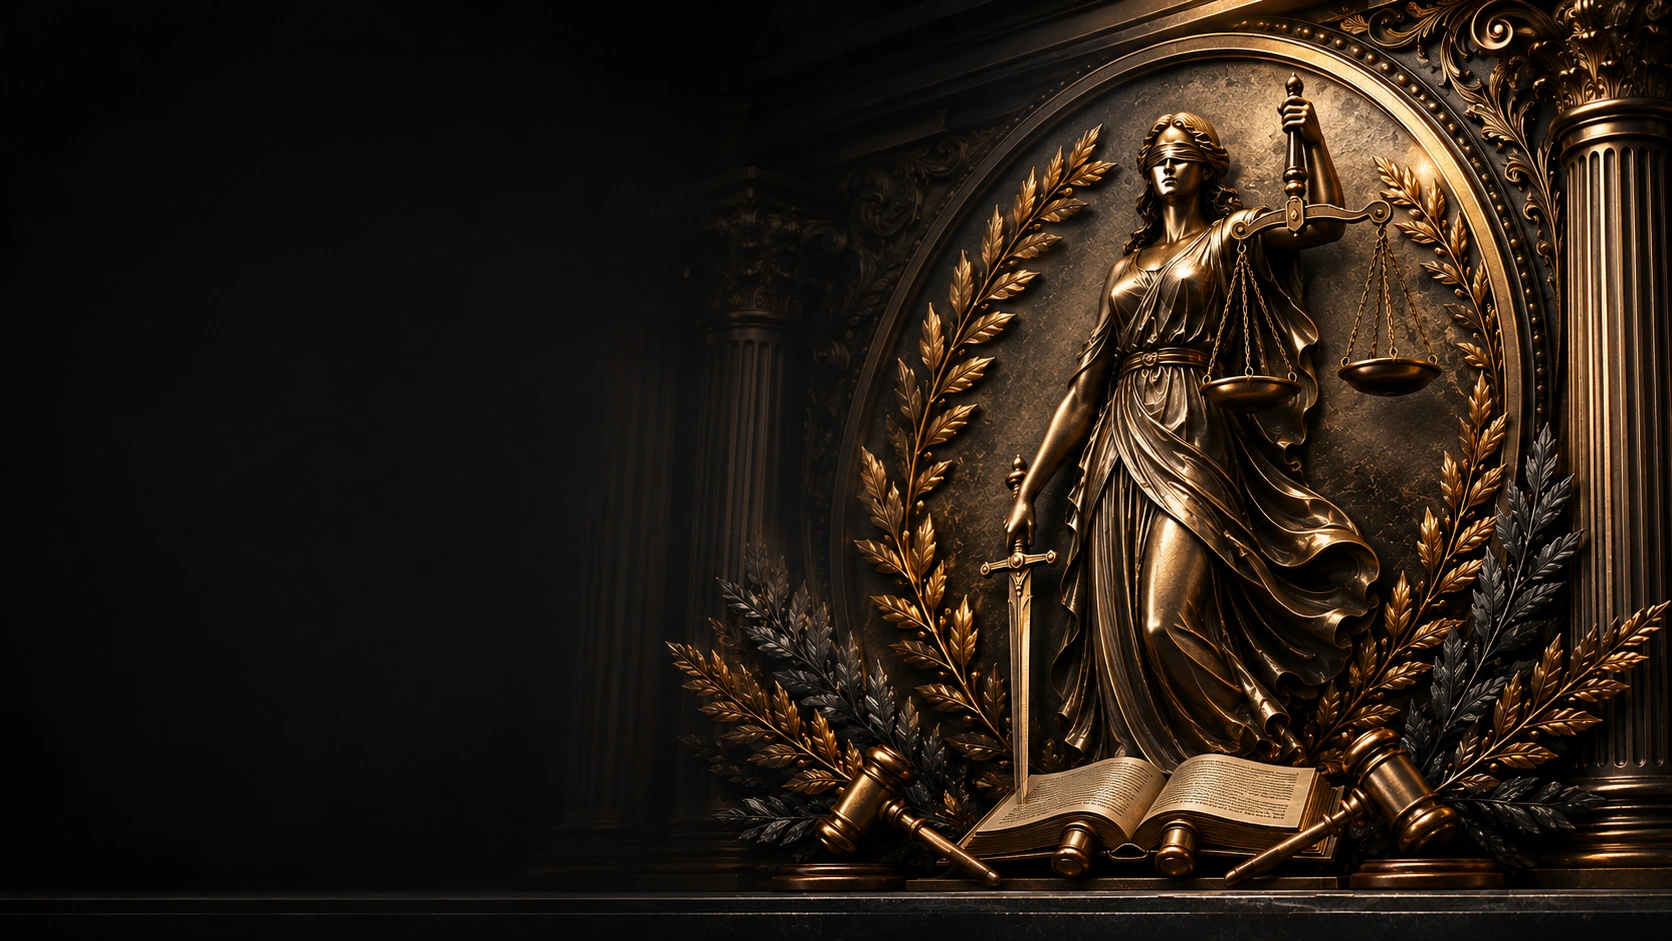
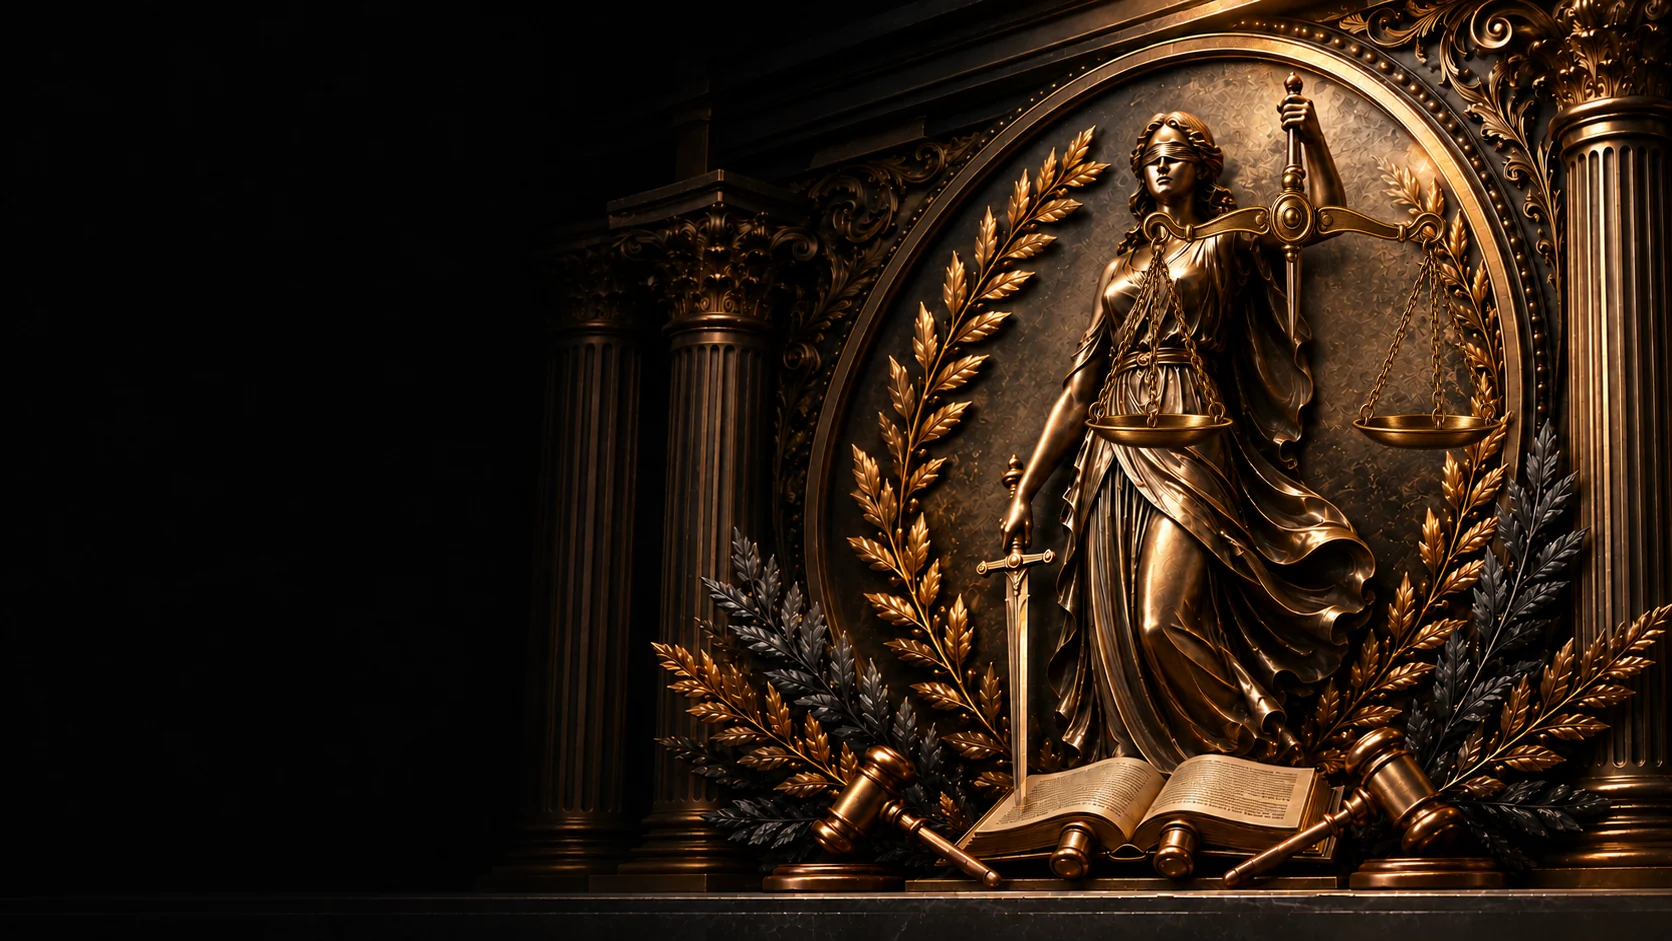
feat: hang the scales as their own layer and let them swing
The scales used to be baked into the hero photograph, so nothing could
move. The hero is now three assets generated from one scene:

  hero-adalet-base.webp     the relief without the balance beam
  hero-terazi.webp          the beam, chains and pans alone, transparent
  hero-adalet-premium.webp  the two composited, for mobile and fallback

The overlay is scaled to 0.34 and placed so the beam's centre boss meets
the collar below her fist, at (1292, 172) on the 1672x941 canvas. Rather
than refactoring the hero, the layer reproduces the background image's
render box exactly — same height percentage, and `left:X%` with
`translate(-X%)`, which is the arithmetic `background-position: X%` already
performs. Alignment then holds across breakpoints on its own; measured
within a pixel at 1440 and at 1024.

Rotation pivots on the fulcrum (77.27% 20.05% of that box), so the boss
stays welded to the staff through the swing — verified at both extremes.
The keyframes decay in amplitude at a steady period, the way a heavy
balance actually settles: 2.4 degrees down to rest over ten seconds, once,
after a short delay.

Below 921px the hero is `cover`, where this alignment would be fragile and
the scales fall largely outside the crop, so those widths get the
composited still and no animation. Reduced-motion gets the still too.

diff --git a/redesign-home-polish.css b/redesign-home-polish.css
@@ -283,7 +283,7 @@ body{
         rgba(8,8,7,.12) 70%,
         rgba(8,8,7,.02) 100%) 0 0/100% 100% no-repeat,
       linear-gradient(180deg,rgba(0,0,0,.06),rgba(0,0,0,.28)) 0 0/100% 100% no-repeat,
-      url("assets/hero-adalet-premium.webp") 97% center/auto 94% no-repeat;
+      url("assets/hero-adalet-base.webp") 97% center/auto 94% no-repeat;
   }
   .hero__inner{padding-top:82px}
   .hero__copy{width:min(620px,46vw);transform:translateY(4px)}
@@ -307,10 +307,48 @@ body{
         rgba(8,8,7,.88) 43%,
         rgba(8,8,7,.42) 58%,
         rgba(8,8,7,.06) 77%) 0 0/100% 100% no-repeat,
-      url("assets/hero-adalet-premium.webp") 100% center/auto 90% no-repeat;
+      url("assets/hero-adalet-base.webp") 100% center/auto 90% no-repeat;
   }
 }
 
 @media(max-width:640px){
   .hero h1{max-width:12ch}
+}
+
+/* ------------------------------------------------------------------------
+   Terazi sarkacı. Katman, hero fotoğrafının render kutusunu birebir taklit
+   eder: aynı yükseklik oranı, aynı yatay konum formülü. Böylece kırılım
+   noktalarında hizalama kendiliğinden tutar. Mesnet, kolun orta göbeği.
+   ------------------------------------------------------------------------ */
+.hero__scales{display:none}
+.hero__scales img{width:100%;height:100%;display:block;transform-origin:77.27% 20.05%}
+
+@keyframes terazi-salinim{
+  0%{transform:rotate(0)}
+  8%{transform:rotate(2.4deg)}
+  22%{transform:rotate(-2deg)}
+  38%{transform:rotate(1.45deg)}
+  54%{transform:rotate(-1deg)}
+  70%{transform:rotate(.6deg)}
+  84%{transform:rotate(-.32deg)}
+  93%{transform:rotate(.14deg)}
+  100%{transform:rotate(0)}
+}
+
+@media(min-width:1181px){
+  .hero__scales{
+    display:block;position:absolute;pointer-events:none;
+    height:94%;aspect-ratio:1672/941;
+    left:97%;top:50%;transform:translate(-97%,-50%);
+  }
+}
+@media(min-width:921px) and (max-width:1180px){
+  .hero__scales{
+    display:block;position:absolute;pointer-events:none;
+    height:90%;aspect-ratio:1672/941;
+    left:100%;top:50%;transform:translate(-100%,-50%);
+  }
+}
+@media(min-width:921px) and (prefers-reduced-motion:no-preference){
+  .hero__scales img{animation:terazi-salinim 10s cubic-bezier(.36,.07,.19,.97) .6s both}
 }

diff --git a/index.html b/index.html
@@ -11,7 +11,8 @@
 <link rel="apple-touch-icon" href="assets/apple-touch-icon.png">
 <link rel="preconnect" href="https://fonts.googleapis.com">
 <link rel="preconnect" href="https://fonts.gstatic.com" crossorigin>
-<link rel="preload" as="image" href="assets/hero-adalet-premium.webp">
+<link rel="preload" as="image" href="assets/hero-adalet-base.webp" media="(min-width:921px)">
+<link rel="preload" as="image" href="assets/hero-adalet-premium.webp" media="(max-width:920px)">
 <link href="https://fonts.googleapis.com/css2?family=Bodoni+Moda:opsz,wght@6..96,400;6..96,500&family=DM+Sans:wght@300;400;500&display=swap" rel="stylesheet">
 <link rel="stylesheet" href="redesign.css">
 <link rel="stylesheet" href="redesign-home-polish.css">
@@ -42,6 +43,8 @@
 
 <main id="main">
   <section class="hero">
+    <!-- Terazi ayrı katman: sahne görselinde yok, sarkaç gibi salınabilsin diye. -->
+    <div class="hero__scales" aria-hidden="true"><img src="assets/hero-terazi.webp" alt="" width="1672" height="941"></div>
     <div class="shell hero__inner">
       <div class="hero__copy reveal">
         <p class="eyebrow">Karakaş Hukuk Bürosu · İzmir</p>

diff --git a/assets/_source/README.md b/assets/_source/README.md
@@ -11,3 +11,7 @@ içindeki webp'lerin kaynağıdır; kırpma veya boyut değişirse yeniden
 | `hakkimizda-terazi-masa.webp` | `hakkimizda-banner.webp` (aynen) + `hakkimizda-terazi-foto.webp` (gömülü metin kırpılarak) |
 | `pinar-karakas-seffaf-yuksek-kalite.png` | `pinar-karakas-portre.webp` |
 | `KARAKAS_HUKUK_LOGO_SEFFAF_4K.png` | logo lockup türevleri |
+| `hero-katman-a-terazisiz.png` | `hero-adalet-base.webp` (masaüstü, terazi ayrı katman) |
+| `hero-katman-b-terazi.png` | `hero-terazi.webp` (0.34 ölçek, göbek tepesi 1292,172'ye) |
+| A + B birleşik | `hero-adalet-premium.webp` (mobil ve yedek) |
+| `hero-adalet-premium-eski.webp` | terazi sarkacından önceki hero |
